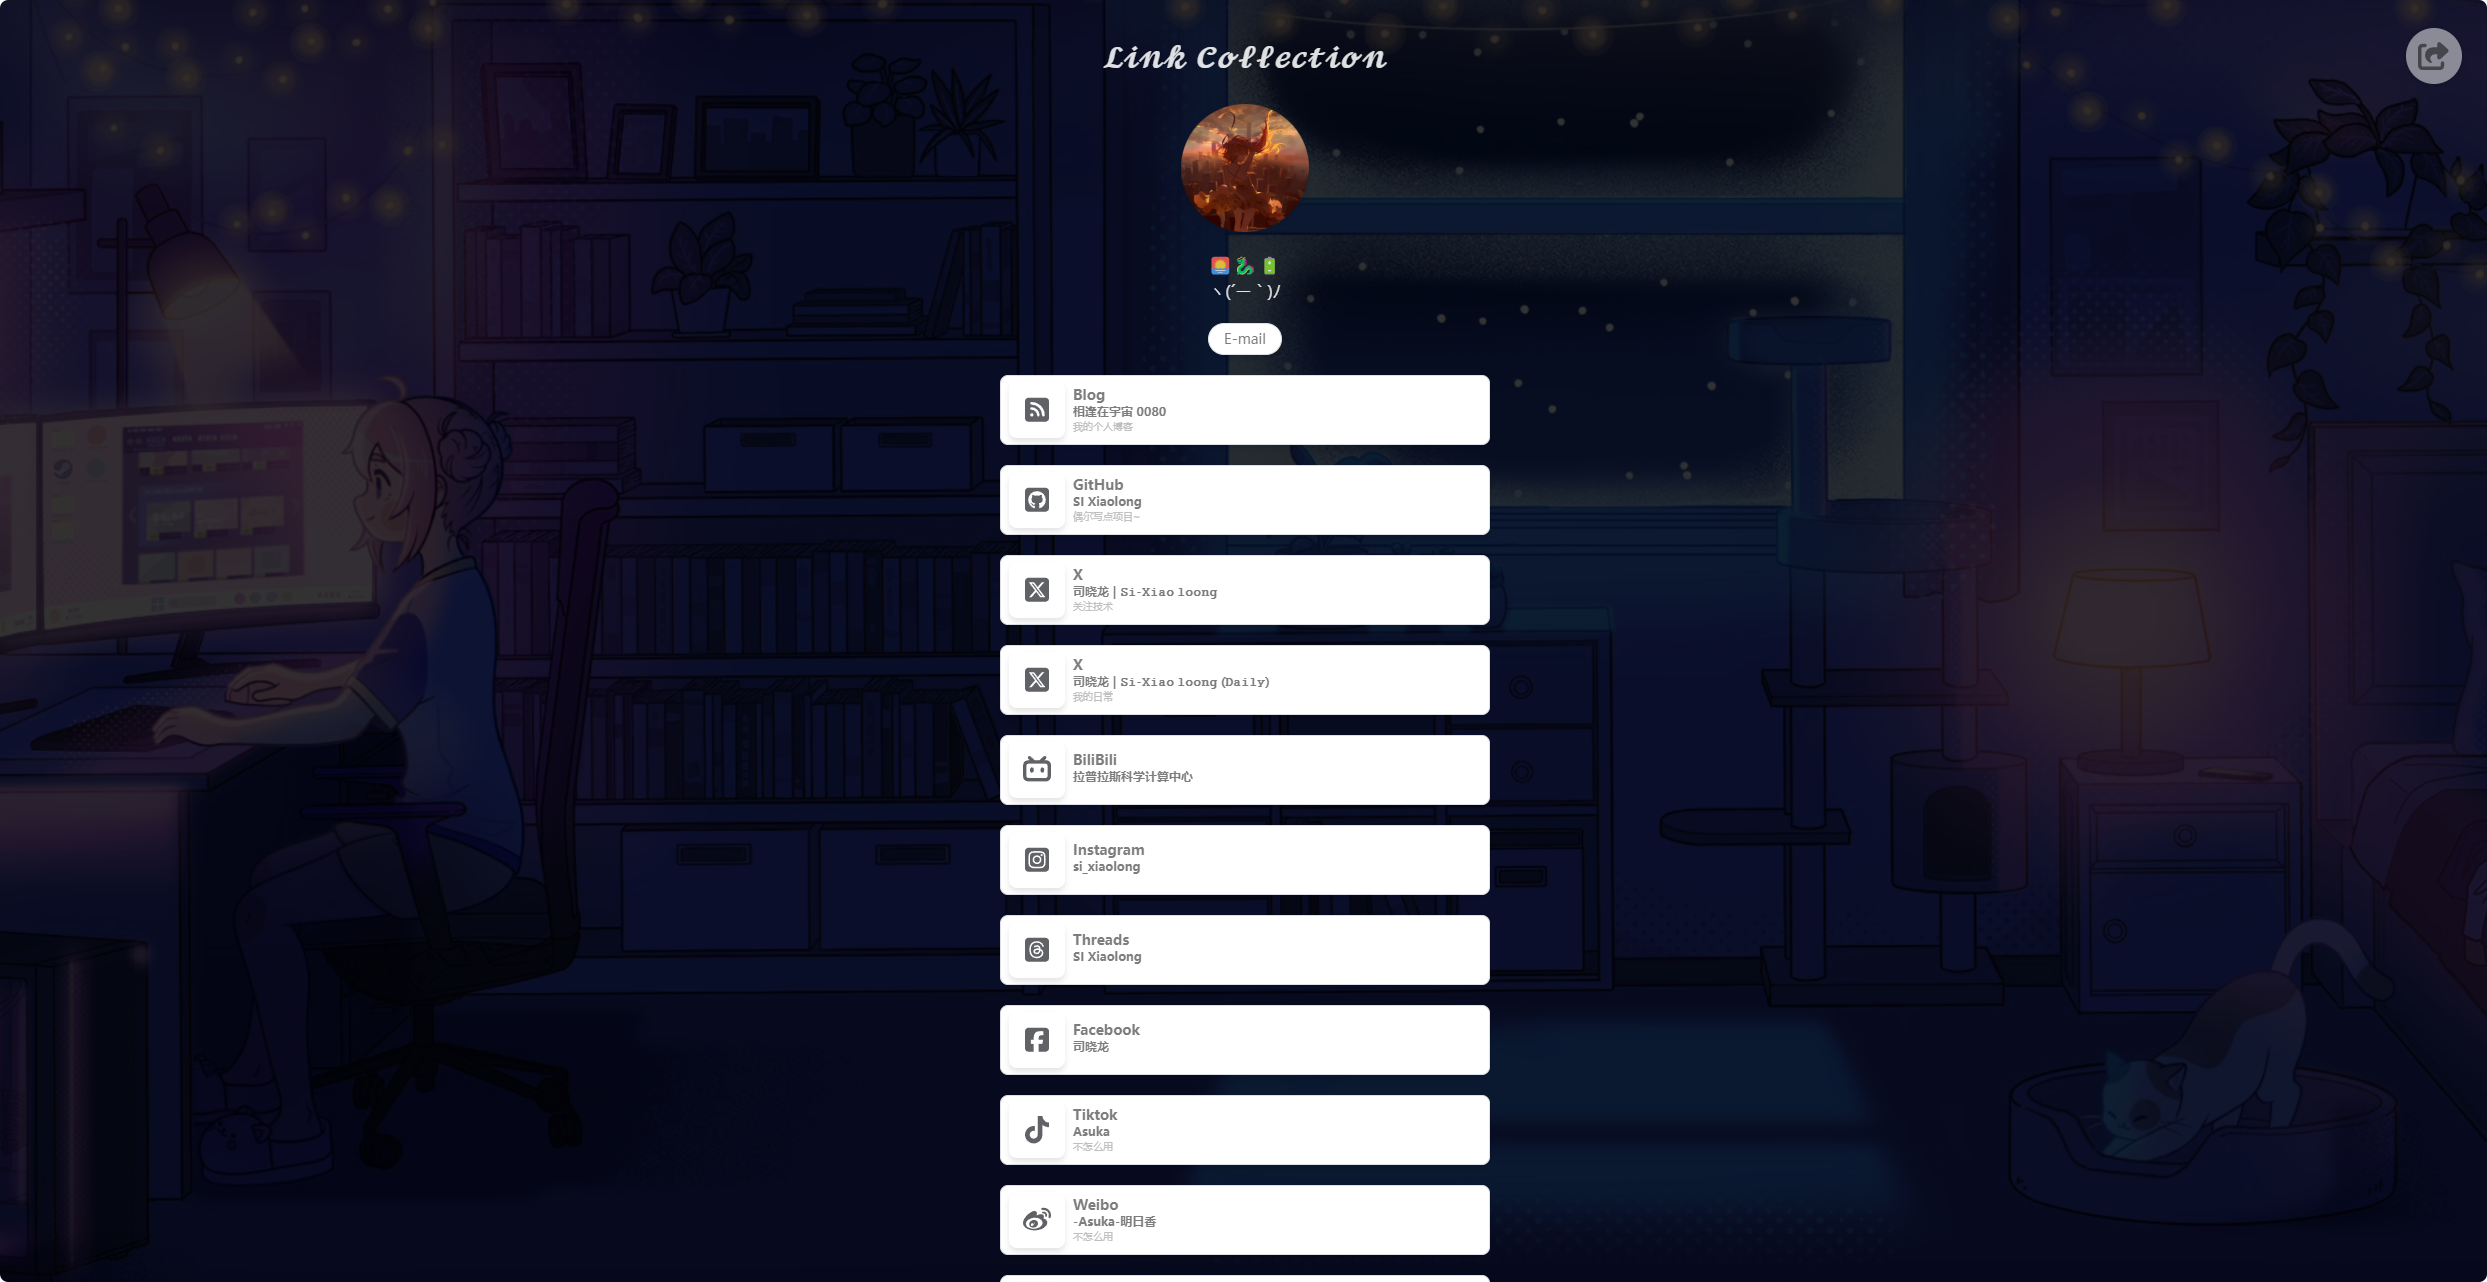
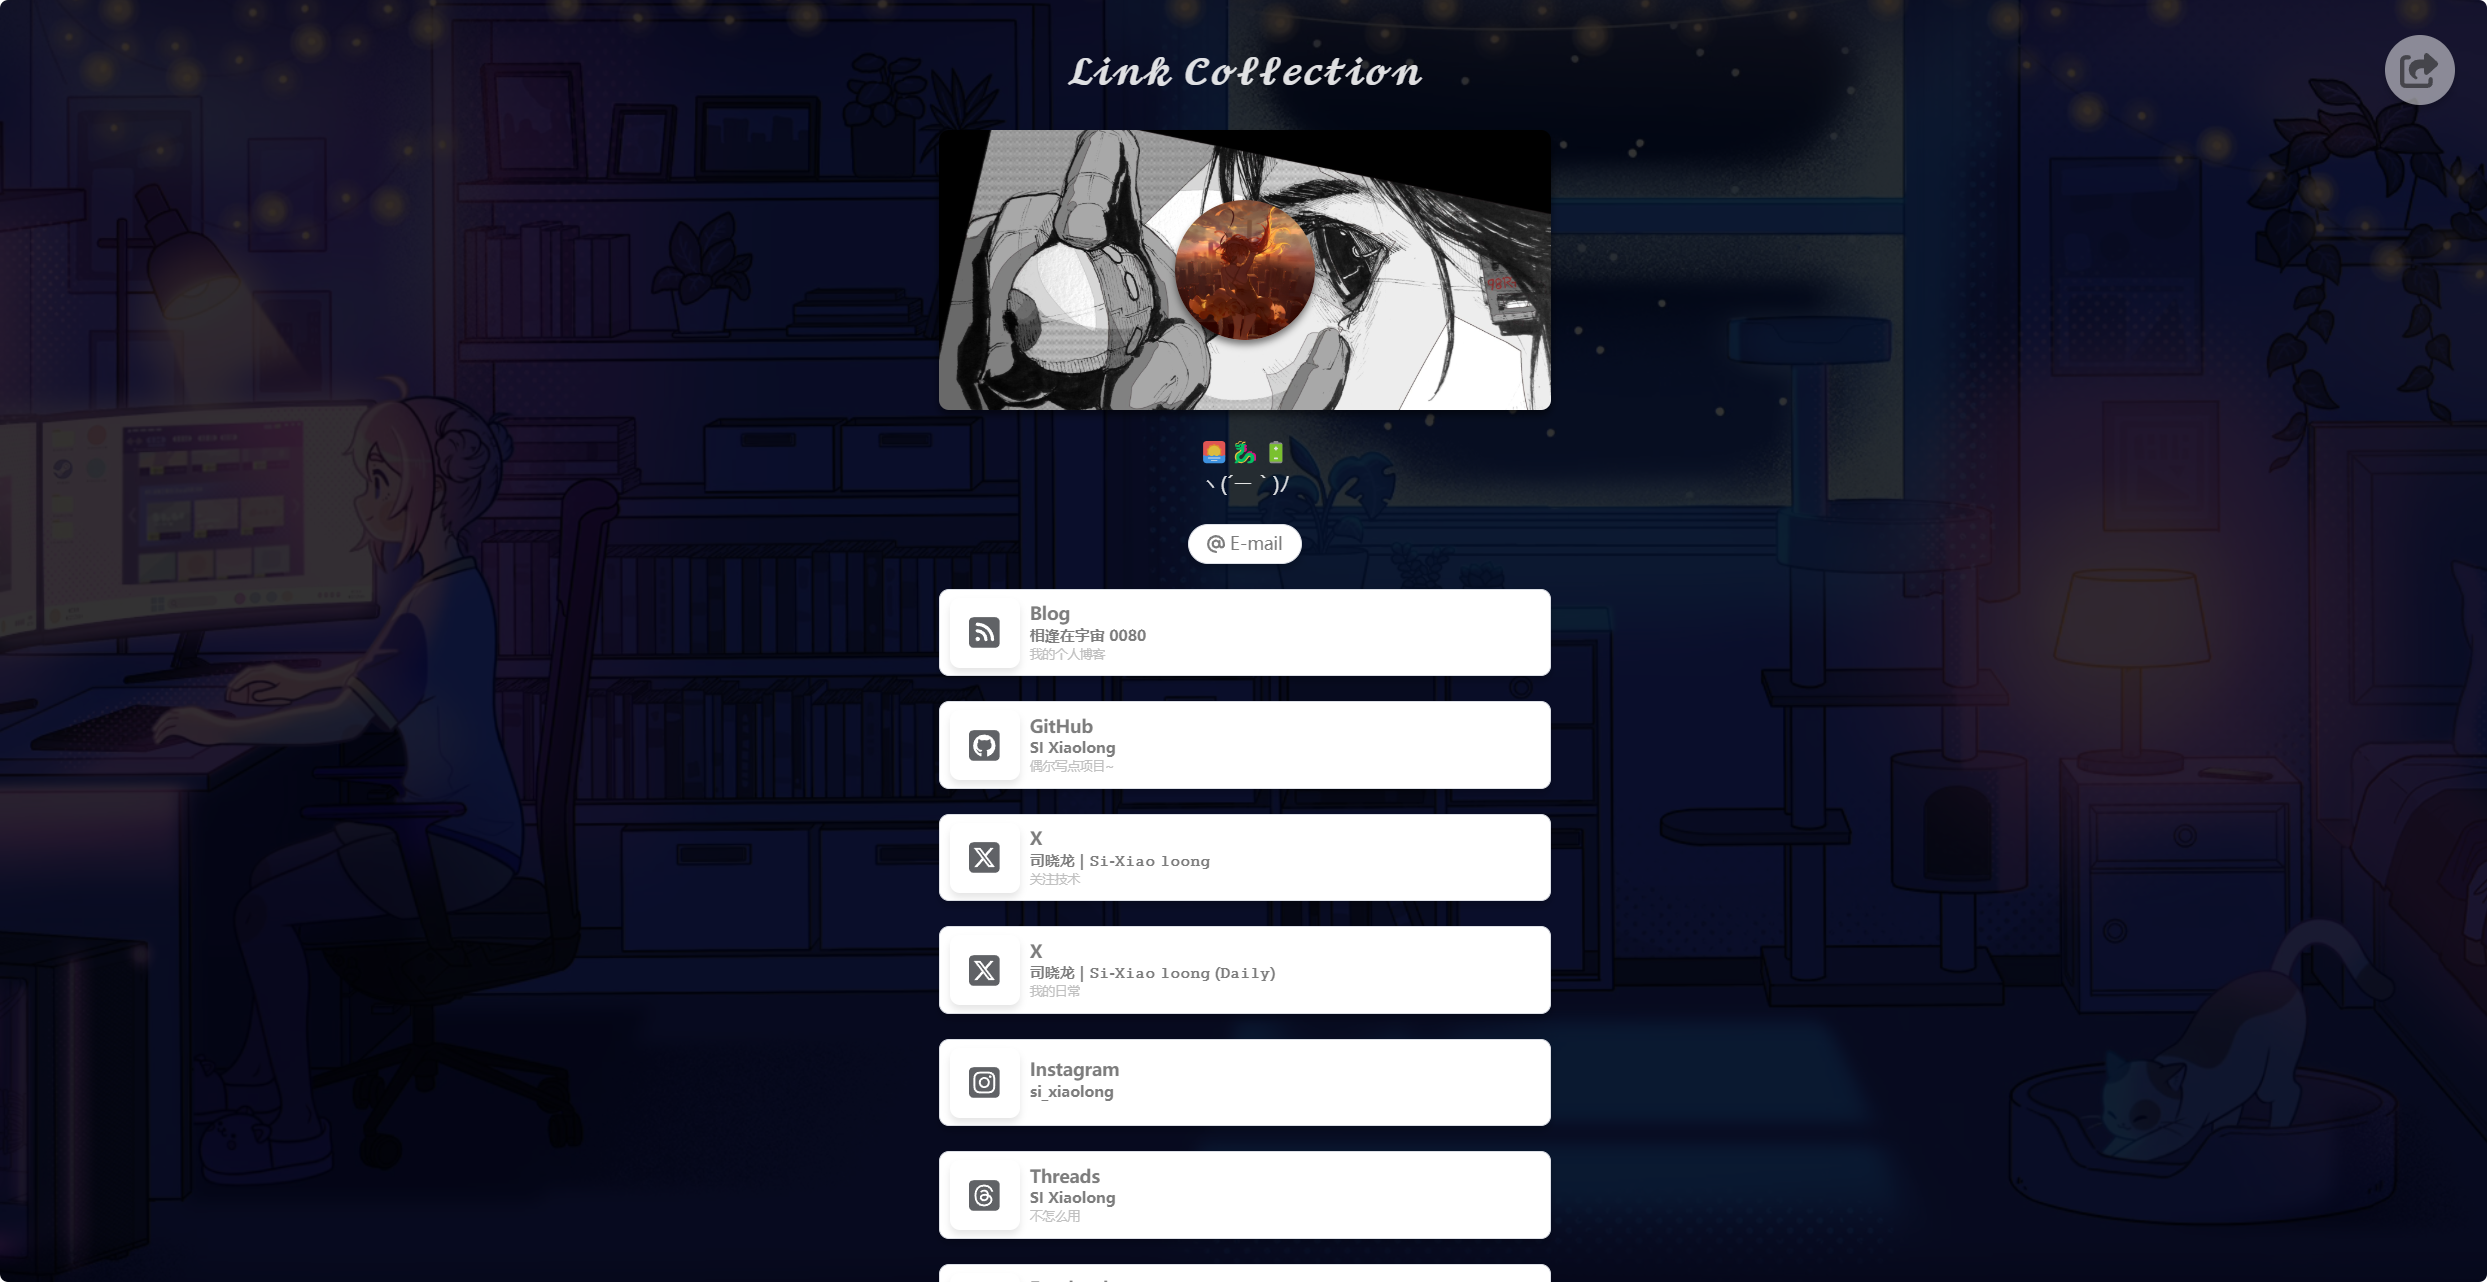
更新头像背景。

Changed region(s): [[0.3715, 0.0312, 0.6502, 1.0], [0.9598, 0.0, 0.9908, 0.0936]]

diff --git a/src/components/Avatar.vue b/src/components/Avatar.vue
@@ -3,13 +3,18 @@ defineProps<{ Link: string }>();
 </script>
 
 <template>
+    <div class="avatar-back">
     <div class="avatar">
-        <img :src="Link" alt="Avatar" />
+        <img :src="Link" />
+    </div>
     </div>
 </template>
 
 <style scoped>
 .avatar {
+    z-index: 2;
+    margin-top: 4em;
+    margin-bottom: 4em;
     width: 8em;
     height: 8em;
     border-radius: 50%;
@@ -17,17 +22,32 @@ defineProps<{ Link: string }>();
     display: flex;
     align-items: center;
     justify-content: center;
-    box-shadow: 0 4px 6px rgba(0, 0, 0, 0.1);
+    box-shadow: 0 4px 6px rgba(0, 0, 0, 0.5);
+    transform: rotate(0deg) rotateY(0deg) scale(1) !important;
+    transition: transform 0.5s ease-in-out !important;
 }
 
 .avatar:hover {
-  transform: rotate(360deg) rotateY(360deg) scale(1.2) !important;
-  transition: transform 0.5s ease-in-out !important;
+    transform: rotate(360deg) rotateY(360deg) scale(2.5) !important;
+    transition: transform 0.5s ease-in-out !important;
 }
 
-.avatar {
-  transform: rotate(0deg) rotateY(0deg) scale(1) !important;
-  transition: transform 0.5s ease-in-out !important;
+.avatar-back {
+    z-index: 1;
+    /* margin-top: -16em; */
+    height: 16em;
+    width: 35em;
+    font-size: 14px;
+    display: flex;
+    justify-content: center;
+    align-items: center;
+    /* overflow: hidden; */
+    border-radius: 8px;
+    background-image: url("/avatar-back.jpg");
+    background-repeat: no-repeat;
+    background-position: center center;
+    background-size: cover;
+    box-shadow: 0 4px 6px rgba(0, 0, 0, 0.5);
 }
 
 .avatar img {
@@ -40,6 +60,19 @@ defineProps<{ Link: string }>();
     .avatar {
         width: 40vw;
         height: 40vw;
+        margin-top: 0;
+        margin-bottom: 0;
+    }
+
+    .avatar:hover {
+        transform: rotate(360deg) rotateY(360deg) scale(1.4) !important;
+        transition: transform 0.5s ease-in-out !important;
+    }
+
+    .avatar-back {
+        /* display: none; */
+        width: 70vw;
+        height: 50vw;
     }
 }
 </style>

diff --git a/src/components/Link.vue b/src/components/Link.vue
@@ -31,7 +31,7 @@ const SocialPlatforms = computed(() => {
     } else if (Link.includes('twitter.com')) {
         platform.platformsName = 'Twitter';
         platform.iconfamily = 'fab';
-        platform.icon = 'twitter';
+        platform.icon = 'x-twitter';
     } else if (Link.includes('bilibili.com')) {
         platform.platformsName = 'BiliBili';
         platform.iconfamily = 'fab';
@@ -146,6 +146,7 @@ const openLink = () => {
     justify-content: flex-start;
     margin-top: 2px;
     margin-bottom: 2px;
+    font-size: 14px;
 }
 
 .SocialDetail-name {
@@ -159,7 +160,7 @@ const openLink = () => {
 
 .el-button {
     border-radius: 8px;
-    box-shadow: 0 4px 6px rgba(0, 0, 0, 0.1);
+    box-shadow: 0 4px 6px rgba(0, 0, 0, 0.2);
 }
 
 .el-button:hover {

diff --git a/src/components/ShareButton.vue b/src/components/ShareButton.vue
@@ -141,7 +141,7 @@ function copyLink() {
     top: 2em;
     right: 2em;
     z-index: 1000;
-    box-shadow: 0 2px 10px rgba(0, 0, 0, 0.1);
+    box-shadow: 0 4px 6px rgba(0, 0, 0, 0.2);
     background-color: rgba(255, 255, 255, 0.5);
     border: #00000000;
 }

diff --git a/src/components/Email.vue b/src/components/Email.vue
@@ -14,7 +14,7 @@ function emailto() {
 <style scoped>
 .el-button {
     color: rgb(125, 125, 125);
-    box-shadow: 0 4px 6px rgba(0, 0, 0, 0.1);
+    box-shadow: 0 4px 6px rgba(0, 0, 0, 0.2);
 }
 
 .el-button:hover {

diff --git a/src/components/Copy.vue b/src/components/Copy.vue
@@ -124,7 +124,7 @@ function copyLink() {
 
 .el-button {
     border-radius: 8px;
-    box-shadow: 0 4px 6px rgba(0, 0, 0, 0.1);
+    box-shadow: 0 4px 6px rgba(0, 0, 0, 0.2);
 }
 
 .el-button:hover {

diff --git a/src/components/VideoBackground.vue b/src/components/VideoBackground.vue
@@ -18,7 +18,7 @@
     width: 100%;
     height: 100%;
     object-fit: cover;
-    z-index: -1;
+    z-index: -1000;
     opacity: 0.2;
 }
 </style>

diff --git a/README.md b/README.md
@@ -2,4 +2,4 @@
 
 ![](/README/01.png)
 
-一个纯前端实现的社交链接整合网页，基于 Vue。
+一个纯前端静态页面实现的社交链接整合网页，基于 Vue。
